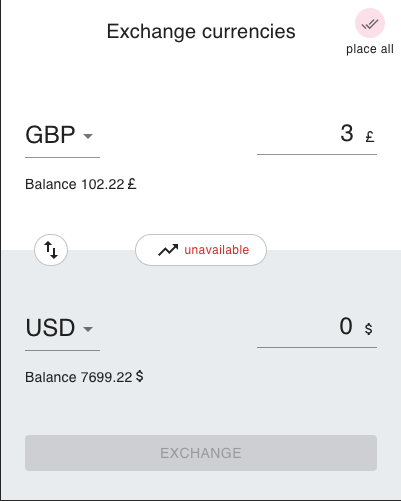
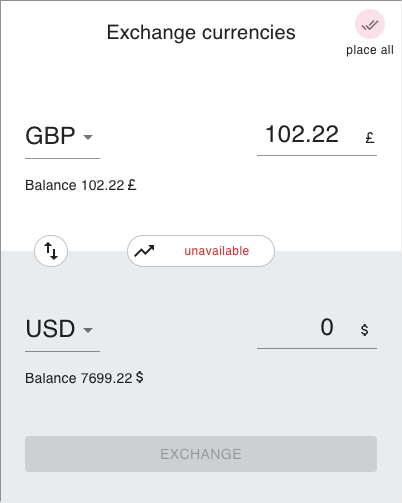
Adjust indentations

diff --git a/widget/src/components/amount-input-field.tsx b/widget/src/components/amount-input-field.tsx
@@ -2,7 +2,7 @@ import React, { ChangeEvent } from 'react';
 import { Dispatch, bindActionCreators } from 'redux';
 import { Input, InputAdornment } from '@material-ui/core';
 import { connect } from 'react-redux';
-import { makeStyles } from '@material-ui/core/styles';
+import { makeStyles, Theme } from '@material-ui/core/styles';
 
 import { State } from 'store';
 import { actions as pocketActions } from 'store/modules/pockets';
@@ -32,16 +32,17 @@ interface OwnProps {
 
 type Props = OwnProps & StateProps & DispatchProps;
 
-const useStyles = makeStyles({
+const useStyles = makeStyles((theme: Theme) => ({
     root: {
         fontSize: '1.5rem',
         width: '30vw',
-        maxWidth: '32vw',
     },
     input: {
         textAlign: 'end',
+        marginRight: theme.spacing(-2.5),
+        marginBottom: theme.spacing(-0.5),
     },
-});
+}));
 
 const AmountInputField = ({ actions, currencies, pockets, pocketDirection, isLoadingRates }: Props) => {
     const classes = useStyles();
@@ -62,7 +63,7 @@ const AmountInputField = ({ actions, currencies, pockets, pocketDirection, isLoa
             className={classes.root}
             onChange={handleInputChange}
             disabled={isLoadingRates}
-            inputProps={{ min: 0, max: +currentPocket.sum, className: classes.input, maxLength: 8 }}
+            inputProps={{ min: 0, max: +currentPocket.sum, className: classes.input, maxLength: 7 }}
             endAdornment={
                 <InputAdornment position="end">
                     {mapIcons(currencies[pocketDirection])}

diff --git a/widget/src/api/currency-rates/index.ts b/widget/src/api/currency-rates/index.ts
@@ -6,7 +6,7 @@ const URL = 'https://openexchangerates.org/api/latest.json';
 
 export const getCurrencyRates = () => axios.get(URL, {
     params: {
-        app_id: '2b3e9170d55c46fead589f4fdeac1fb8',
+        // app_id: '2b3e9170d55c46fead589f4fdeac1fb8',
     }
 })
     .then((res: CurrencyRateResponse) => res.data)

diff --git a/widget/src/components/rate-chip.tsx b/widget/src/components/rate-chip.tsx
@@ -25,9 +25,10 @@ const useStyles = makeStyles((theme: Theme) => ({
         minWidth: '33vw',
     },
     label: {
-        padding: theme.spacing(0, 2)
+        padding: theme.spacing(0, 2),
     },
     error: {
+        padding: theme.spacing(0, 3),
         color: theme.palette.error.dark,
     },
 }));

diff --git a/widget/src/store/modules/pockets/reducer.ts b/widget/src/store/modules/pockets/reducer.ts
@@ -15,7 +15,7 @@ export const defaultState: DefaultState = [
   {
     currency: CurrencyMap.pound,
     sum: '102.22',
-    placedSum: 3,
+    placedSum: 12,
   },
   {
     currency: CurrencyMap.dollar,
